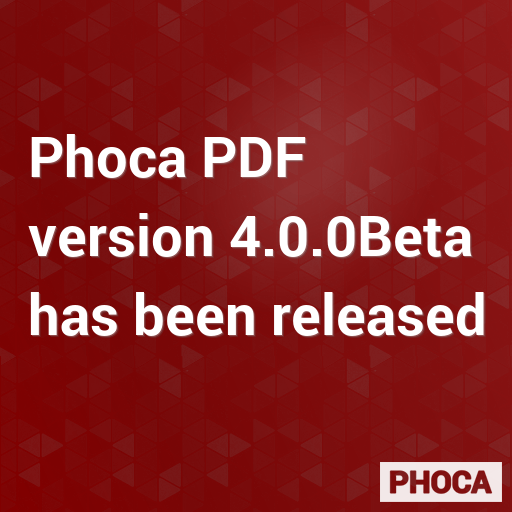
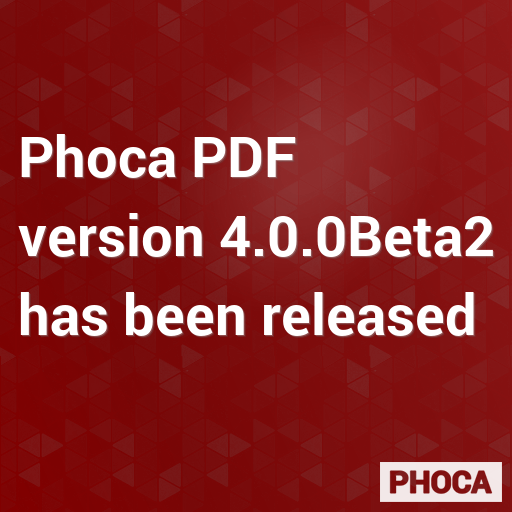
4.0.0Beta2
4.0.0Beta2

Changed region(s): [[0.0312, 0.4062, 0.9688, 0.5312], [0.0312, 0.5625, 0.9688, 0.6562], [0.0312, 0.25, 0.5938, 0.375]]

diff --git a/admin/helpers/phocapdf.php b/admin/helpers/phocapdf.php
@@ -159,7 +159,7 @@ class PhocaPDFHelper
 	public static function getPhocaInfo($pdf = 1) {
 
 		PluginHelper::importPlugin('phocatools');
-        $results = Factory::getApplication()->triggerEvent('PhocatoolsOnDisplayInfo', array('NjI5NTM4NDcxNzcxMTc='));
+        $results = Factory::getApplication()->triggerEvent('onPhocatoolsOnDisplayInfo', array('NjI5NTM4NDcxNzcxMTc='));
         if (isset($results[0]) && $results[0] === true) {
             return '';
         }
@@ -216,7 +216,7 @@ class PhocaPDFCell
 	public static function setCell($pdf = 1) {
 
 		PluginHelper::importPlugin('phocatools');
-        $results = Factory::getApplication()->triggerEvent('PhocatoolsOnDisplayInfo', array('NjI5NTM4NDcxNzcxMTc='));
+        $results = Factory::getApplication()->triggerEvent('onPhocatoolsOnDisplayInfo', array('NjI5NTM4NDcxNzcxMTc='));
         if (isset($results[0]) && $results[0] === true) {
             return '';
         }

diff --git a/admin/views/phocapdfplugin/tmpl/default_content.php b/admin/views/phocapdfplugin/tmpl/default_content.php
@@ -93,7 +93,7 @@ echo '<br />' .HTMLHelper::_('image', 'media/com_phocapdf/images/administrator/i
 
 echo '</div>';
 
-echo '<div id="phocapdf-apply"><a href="#" class="btn btn-success" onclick="javascript: submitbutton(\'phocapdfplugin.apply\')"><i class="icon-apply icon-white"></i>&nbsp;&nbsp;'.Text::_('COM_PHOCAPDF_SAVE').'</a></div>';
+echo '<div id="phocapdf-apply"><a href="#" class="btn btn-success" onclick="javascript: Joomla.submitbutton(\'phocapdfplugin.apply\')"><i class="icon-apply icon-white"></i>&nbsp;&nbsp;'.Text::_('COM_PHOCAPDF_SAVE').'</a></div>';
 
 
 

diff --git a/admin/views/phocapdfplugin/tmpl/default_phocacart.php b/admin/views/phocapdfplugin/tmpl/default_phocacart.php
@@ -93,7 +93,7 @@ echo '<br />' .HTMLHelper::_('image', 'media/com_phocapdf/images/administrator/i
 
 echo '</div>';
 
-echo '<div id="phocapdf-apply"><a href="#" class="btn btn-success" onclick="javascript: submitbutton(\'phocapdfplugin.apply\')"><i class="icon-apply icon-white"></i>&nbsp;&nbsp;'.Text::_('COM_PHOCAPDF_SAVE').'</a></div>';
+echo '<div id="phocapdf-apply"><a href="#" class="btn btn-success" onclick="javascript: Joomla.submitbutton(\'phocapdfplugin.apply\')"><i class="icon-apply icon-white"></i>&nbsp;&nbsp;'.Text::_('COM_PHOCAPDF_SAVE').'</a></div>';
 
 
 

diff --git a/admin/views/phocapdfplugin/tmpl/default_restaurantmenu.php b/admin/views/phocapdfplugin/tmpl/default_restaurantmenu.php
@@ -93,7 +93,7 @@ echo '<br />' .HTMLHelper::_('image', 'media/com_phocapdf/images/administrator/i
 
 echo '</div>';
 
-echo '<div id="phocapdf-apply"><a href="#" class="btn btn-success" onclick="javascript: submitbutton(\'phocapdfplugin.apply\')"><i class="icon-apply icon-white"></i>&nbsp;&nbsp;'.Text::_('COM_PHOCAPDF_SAVE').'</a></div>';
+echo '<div id="phocapdf-apply"><a href="#" class="btn btn-success" onclick="javascript: Joomla.submitbutton(\'phocapdfplugin.apply\')"><i class="icon-apply icon-white"></i>&nbsp;&nbsp;'.Text::_('COM_PHOCAPDF_SAVE').'</a></div>';
 
 
 

diff --git a/admin/files/Document/Renderer/Pdf/ModuleRenderer.php b/admin/files/Document/Renderer/Pdf/ModuleRenderer.php
@@ -1,5 +1,3 @@
-use Joomla\CMS\Factory;
-use Joomla\CMS\Helper\ModuleHelper;
 <?php
 /**
  * Joomla! Content Management System
@@ -16,6 +14,8 @@ use Joomla\CMS\Document\DocumentRenderer;
 use Joomla\CMS\Log\Log;
 use Joomla\CMS\Layout\LayoutHelper;
 use Joomla\Registry\Registry;
+use Joomla\CMS\Factory;
+use Joomla\CMS\Helper\ModuleHelper;
 
 /**
  * HTML document renderer for a single module

diff --git a/admin/files/Document/Renderer/Pdf/ModulesRenderer.php b/admin/files/Document/Renderer/Pdf/ModulesRenderer.php
@@ -1,4 +1,3 @@
-use Joomla\CMS\Factory;
 <?php
 /**
  * Joomla! Content Management System
@@ -14,6 +13,7 @@ defined('JPATH_PLATFORM') or die;
 use Joomla\CMS\Document\DocumentRenderer;
 use Joomla\CMS\Helper\ModuleHelper;
 use Joomla\CMS\Layout\LayoutHelper;
+use Joomla\CMS\Factory;
 
 /**
  * HTML document renderer for a module position

diff --git a/admin/assets/tcpdf/tcpdf.php b/admin/assets/tcpdf/tcpdf.php
@@ -22914,6 +22914,7 @@ Putting 1 is equivalent to putting 0 and calling Ln() just after. Default value:
 			$svgdata = substr($file, 1);
 		} else { // SVG file
             $file = str_replace('\\', '/', $file);//PHOCAEDIT
+
 			$this->svgdir = dirname($file);
             $svgdata = $this->getCachedFileContents($file);
 		}

diff --git a/README.MD b/README.MD
@@ -65,7 +65,7 @@ Phoca PDF is Joomla! CMS component. It helps to set and create PDF documents in 
 
 ## Version (Joomla! 4.x)
 
-4.0.0Beta
+4.0.0Beta2
 
 
 
